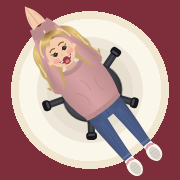
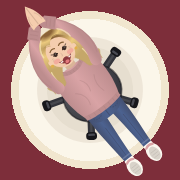
Spinner: arms arch around her head; spin recorder with frame timing

Changed region(s): [[0.1389, 0.0833, 0.5556, 0.5]]

diff --git a/js/spinner.js b/js/spinner.js
@@ -88,9 +88,10 @@ export function spinnerSVG(config = {}) {
 
   return `<svg class="spinner-svg" viewBox="-112 -112 224 224" xmlns="http://www.w3.org/2000/svg" aria-hidden="true">
   <defs>
-    <radialGradient id="${id}-roots" cx="0.56" cy="0.06" r="0.62">
+    <radialGradient id="${id}-roots" cx="0.56" cy="0.04" r="0.66">
       <stop offset="0" stop-color="${c.roots}"/>
-      <stop offset="0.38" stop-color="${mix(c.roots, c.hair, 0.55)}"/>
+      <stop offset="0.2" stop-color="${c.roots}"/>
+      <stop offset="0.42" stop-color="${mix(c.roots, c.hair, 0.55)}"/>
       <stop offset="0.62" stop-color="${c.hair}"/>
       <stop offset="1" stop-color="${hairS}"/>
     </radialGradient>
@@ -159,12 +160,12 @@ export function spinnerSVG(config = {}) {
   </g>
 
   <g class="sp-arms">
-    <path d="M-24 -21 L-6.4 -79" stroke="url(#${id}-top)" stroke-width="12.5" stroke-linecap="round"/>
-    <path d="M24 -21 L6.4 -79" stroke="url(#${id}-top)" stroke-width="12.5" stroke-linecap="round"/>
-    <path d="M-26.5 -23 L-9 -78" stroke="${topD}" stroke-width="1" opacity=".3"/>
-    <path d="M26.5 -23 L9 -78" stroke="${topD}" stroke-width="1" opacity=".3"/>
-    <path d="M-7.9 -73 L-5 -84 M7.9 -73 L5 -84" stroke="${topS}" stroke-width="12.6" stroke-linecap="butt"/>
-    <path d="M-11 -76 L-2.4 -74 M-10.4 -78.6 L-1.8 -76.6 M-9.8 -81.2 L-1.2 -79.2 M11 -76 L2.4 -74 M10.4 -78.6 L1.8 -76.6 M9.8 -81.2 L1.2 -79.2" stroke="${topD}" stroke-width=".6" opacity=".45"/>
+    <path d="M-24 -21 Q-36 -52 -6.4 -83" fill="none" stroke="url(#${id}-top)" stroke-width="12" stroke-linecap="round"/>
+    <path d="M24 -21 Q36 -52 6.4 -83" fill="none" stroke="url(#${id}-top)" stroke-width="12" stroke-linecap="round"/>
+    <path d="M-29.5 -26 Q-41 -54 -10 -86" fill="none" stroke="${topD}" stroke-width="1" opacity=".3"/>
+    <path d="M29.5 -26 Q41 -54 10 -86" fill="none" stroke="${topD}" stroke-width="1" opacity=".3"/>
+    <path d="M-14.6 -75.6 L-5.6 -84.4 M14.6 -75.6 L5.6 -84.4" stroke="${topS}" stroke-width="12.2" stroke-linecap="butt"/>
+    <path d="M-16.4 -79.6 L-10.8 -73.6 M-13.4 -82.2 L-7.8 -76.2 M-10.4 -84.8 L-4.8 -78.8 M16.4 -79.6 L10.8 -73.6 M13.4 -82.2 L7.8 -76.2 M10.4 -84.8 L4.8 -78.8" stroke="${topD}" stroke-width=".6" opacity=".45"/>
     <g class="sp-hands">
       <path d="M-7.6 -83 C-8.8 -93 -4.2 -102 0 -108 C4.2 -102 8.8 -93 7.6 -83 C4 -85 -4 -85 -7.6 -83 Z" fill="${c.skin}"/>
       <path d="M0 -86 V-106" stroke="${skinS}" stroke-width="1.1" stroke-linecap="round"/>
